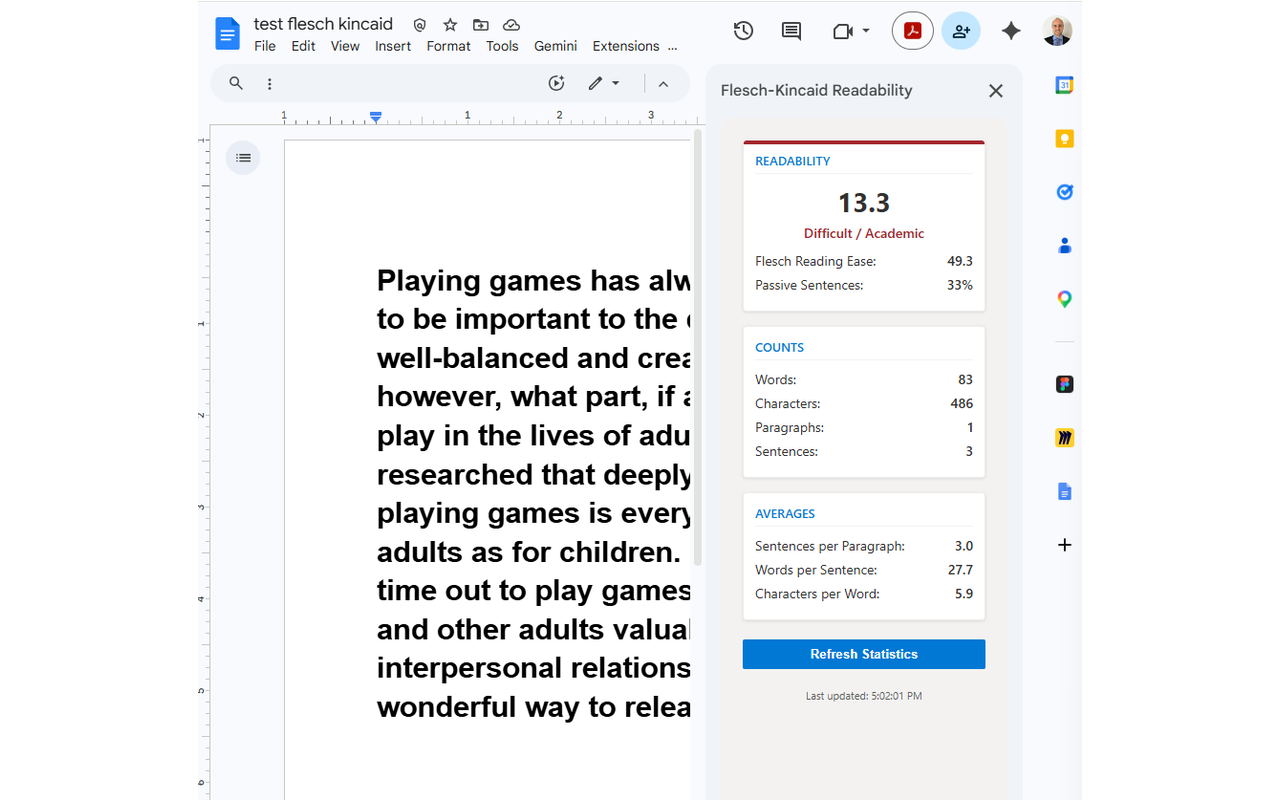
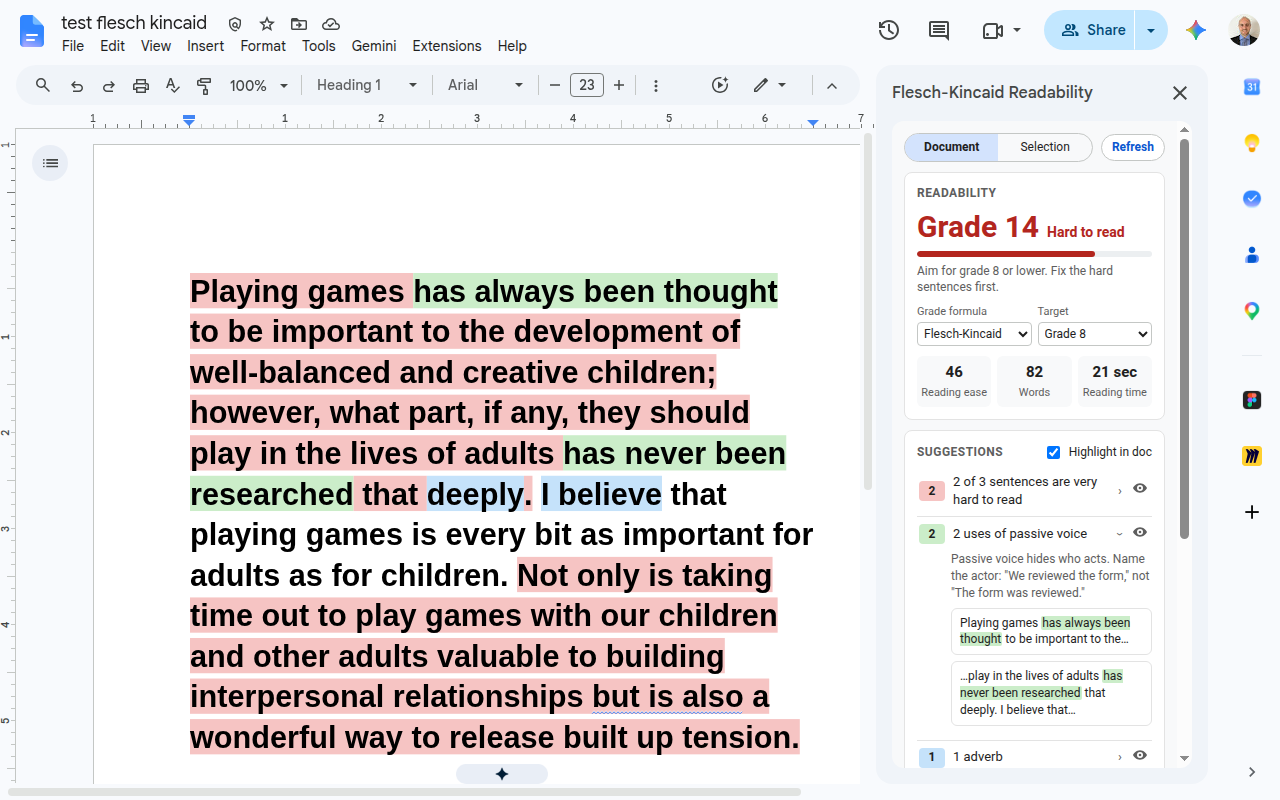
docs: new store screenshot, Marketplace publish step; fix snippet ellipsis
- Replace the store/README screenshot with the new sidebar and highlights
- Document that Marketplace SDK changes need Publish on the Store Listing tab
- Only show "…" in issue snippets when the context was actually truncated

diff --git a/src/TextAnalyzer.js b/src/TextAnalyzer.js
@@ -504,8 +504,10 @@ function analyzeParagraphs(paragraphs) {
       const o = Object.assign({ type, p: para.id, start: base + start, end: base + end, text: text.slice(start, end) }, extra || {});
       if (type !== 'hard' && type !== 'veryHard' && type !== 'longParagraph') {
         // Trim to whole words when the snippet is cut mid-paragraph.
-        o.before = start > 30 ? text.slice(start - 30, start).replace(/^\S*\s/, '') : text.slice(0, start);
-        o.after = end + 30 < text.length ? text.slice(end, end + 30).replace(/\s\S*$/, '') : text.slice(end);
+        o.cutBefore = start > 30;
+        o.cutAfter = end + 30 < text.length;
+        o.before = o.cutBefore ? text.slice(start - 30, start).replace(/^\S*\s/, '') : text.slice(0, start);
+        o.after = o.cutAfter ? text.slice(end, end + 30).replace(/\s\S*$/, '') : text.slice(end);
       }
       issues.push(o);
       counts[type]++;

diff --git a/src/Sidebar.html b/src/Sidebar.html
@@ -373,9 +373,9 @@
           var idx = result.issues.indexOf(issue);
           var body;
           if (issue.before !== undefined) {
-            body = (issue.before ? '…' + esc(issue.before) : '') +
+            body = (issue.cutBefore ? '…' : '') + esc(issue.before) +
               '<mark style="background:var(--' + c.type + ')">' + esc(issue.text) + '</mark>' +
-              (issue.after ? esc(issue.after) + '…' : '');
+              esc(issue.after) + (issue.cutAfter ? '…' : '');
           } else {
             var t = issue.text.length > 140 ? issue.text.slice(0, 140) + '…' : issue.text;
             body = '<mark style="background:var(--' + c.type + ')">' + esc(t) + '</mark>';

diff --git a/README.md b/README.md
@@ -1,8 +1,8 @@
 # Google Docs Flesch-Kincaid Readability Calculator
 
-A Google Docs Add-on designed to calculate and display readability metrics (Flesch-Kincaid Grade Level and Flesch Reading Ease) along with advanced text statistics directly in a document sidebar. 
+A Google Docs add-on that shows your readability grade and Hemingway-style plain language suggestions in a sidebar, highlights issues in the document, and fixes them in one click.
 
-![Google Docs Flesch-Kincaid Screenshot](./Screenshot%202026-04-17%20170955.png)
+![Flesch-Kincaid Readability sidebar with highlights in a Google Doc](./store-assets/screenshot-1280x800.png)
 
 ---
 
@@ -181,6 +181,11 @@ clasp push
 clasp create-version "description"
 ```
 
-Then set the new **Script version** in Marketplace SDK → App Configuration → Docs add-on.
+Then:
 
-Store listing text and images are in `store-assets/` (regenerate images with `uv run store-assets/make_assets.py`).
+1. In Marketplace SDK → **App Configuration**, set **Docs add-on script version** to the new version and click **Save Draft**.
+2. Open the **Store Listing** tab and click **Publish**. Saving only creates a draft; users keep the old version until you publish.
+
+Test changes first with Apps Script → **Deploy → Test deployments**, which runs the latest pushed code (HEAD) in a test document.
+
+Store listing text and images are in `store-assets/`. The icons and banner come from `uv run store-assets/make_assets.py`. `screenshot-1280x800.png` is a browser screenshot of the sidebar at a 1280×800 viewport.
